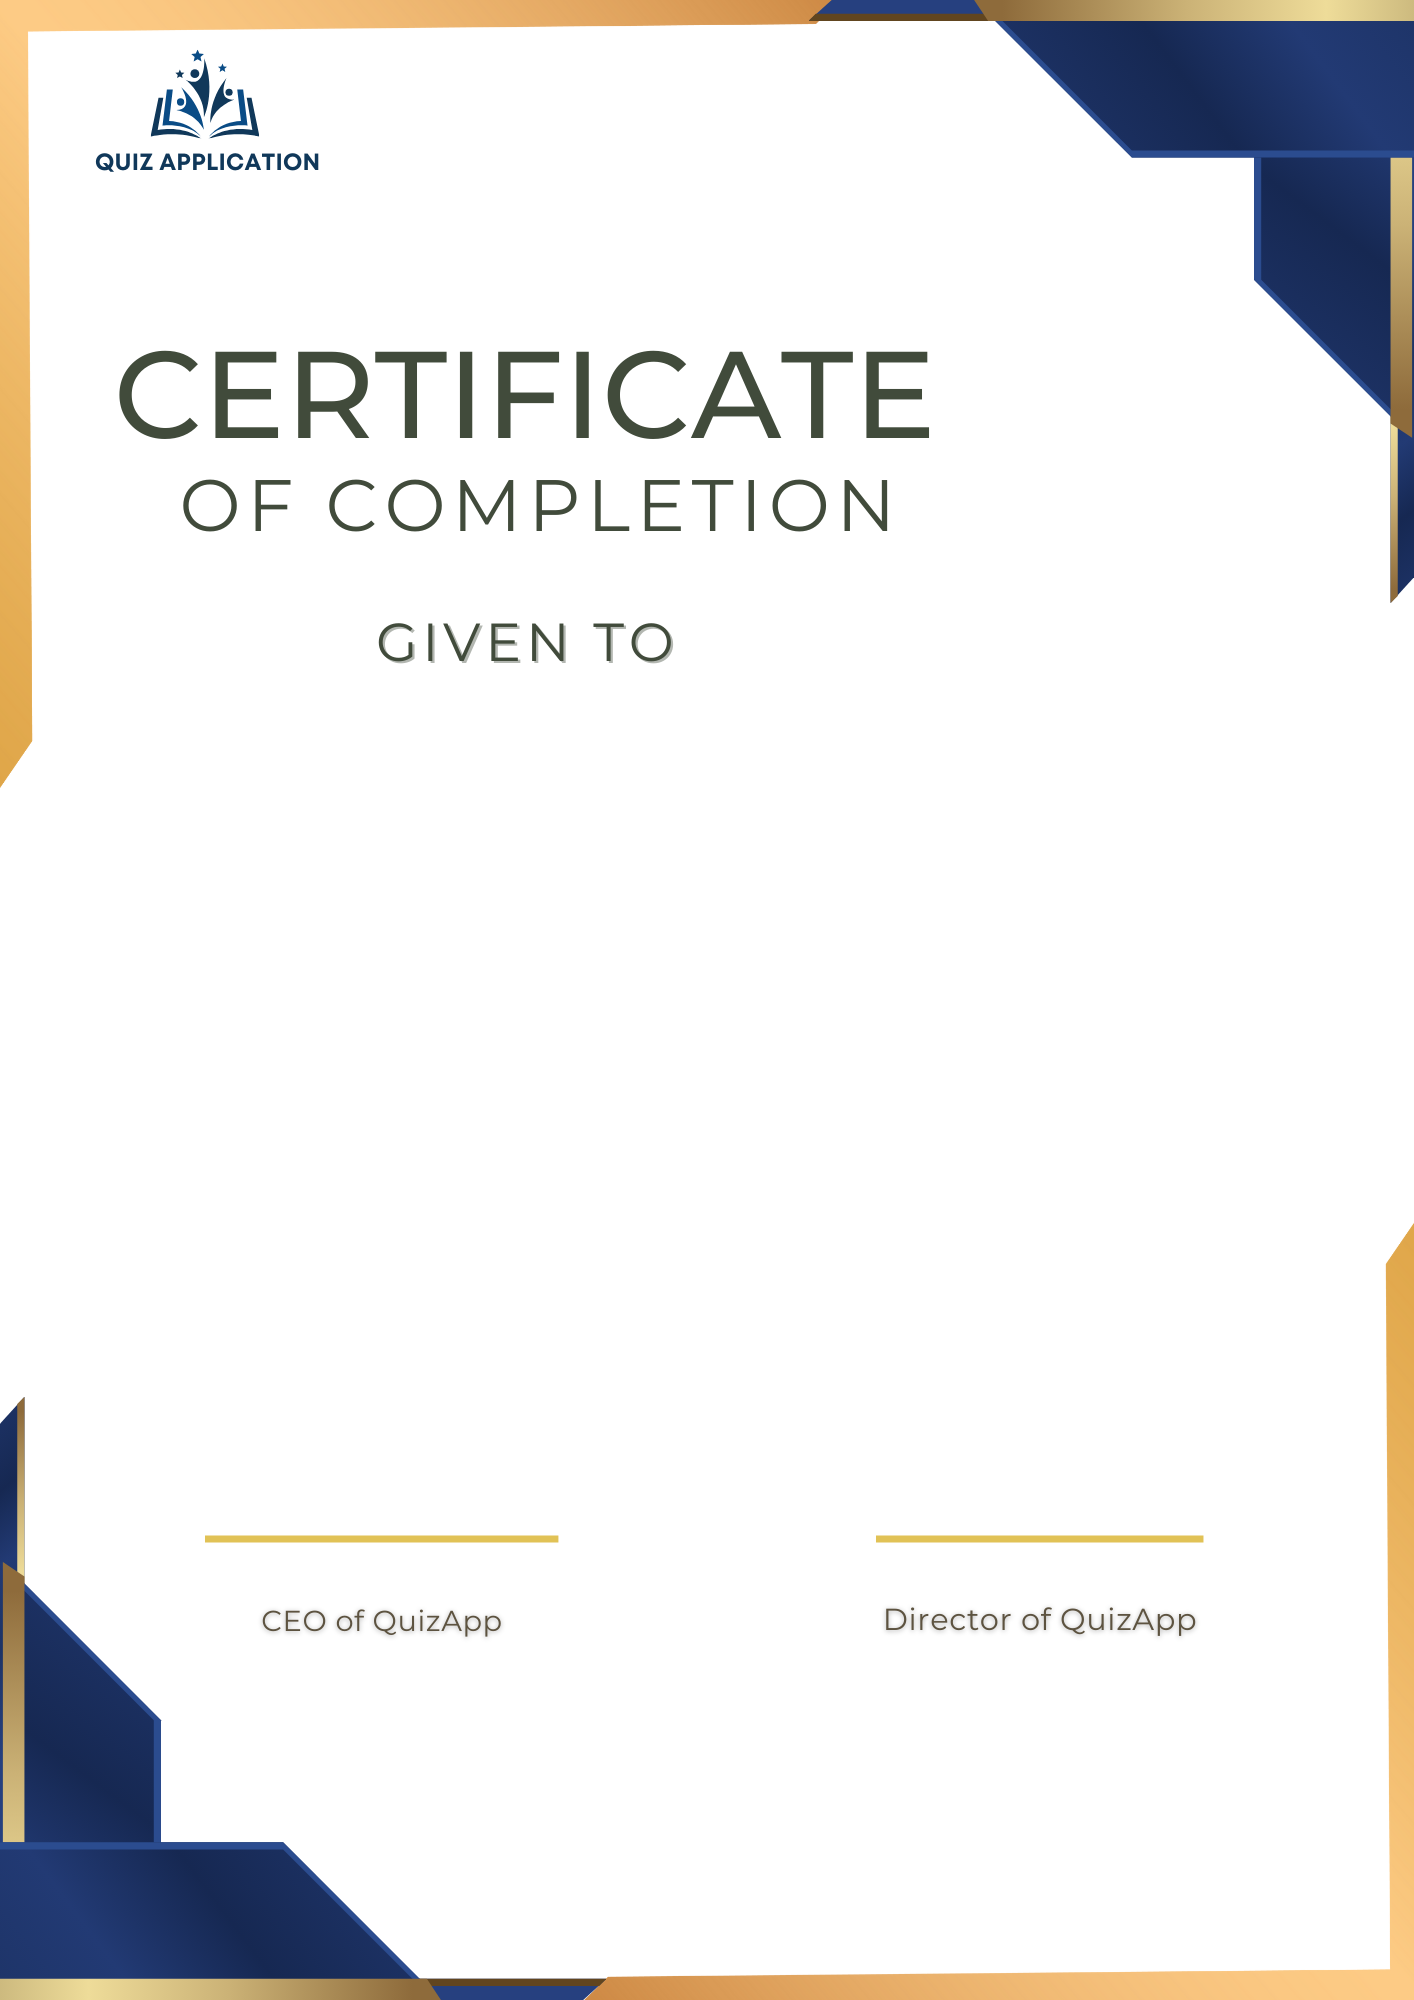
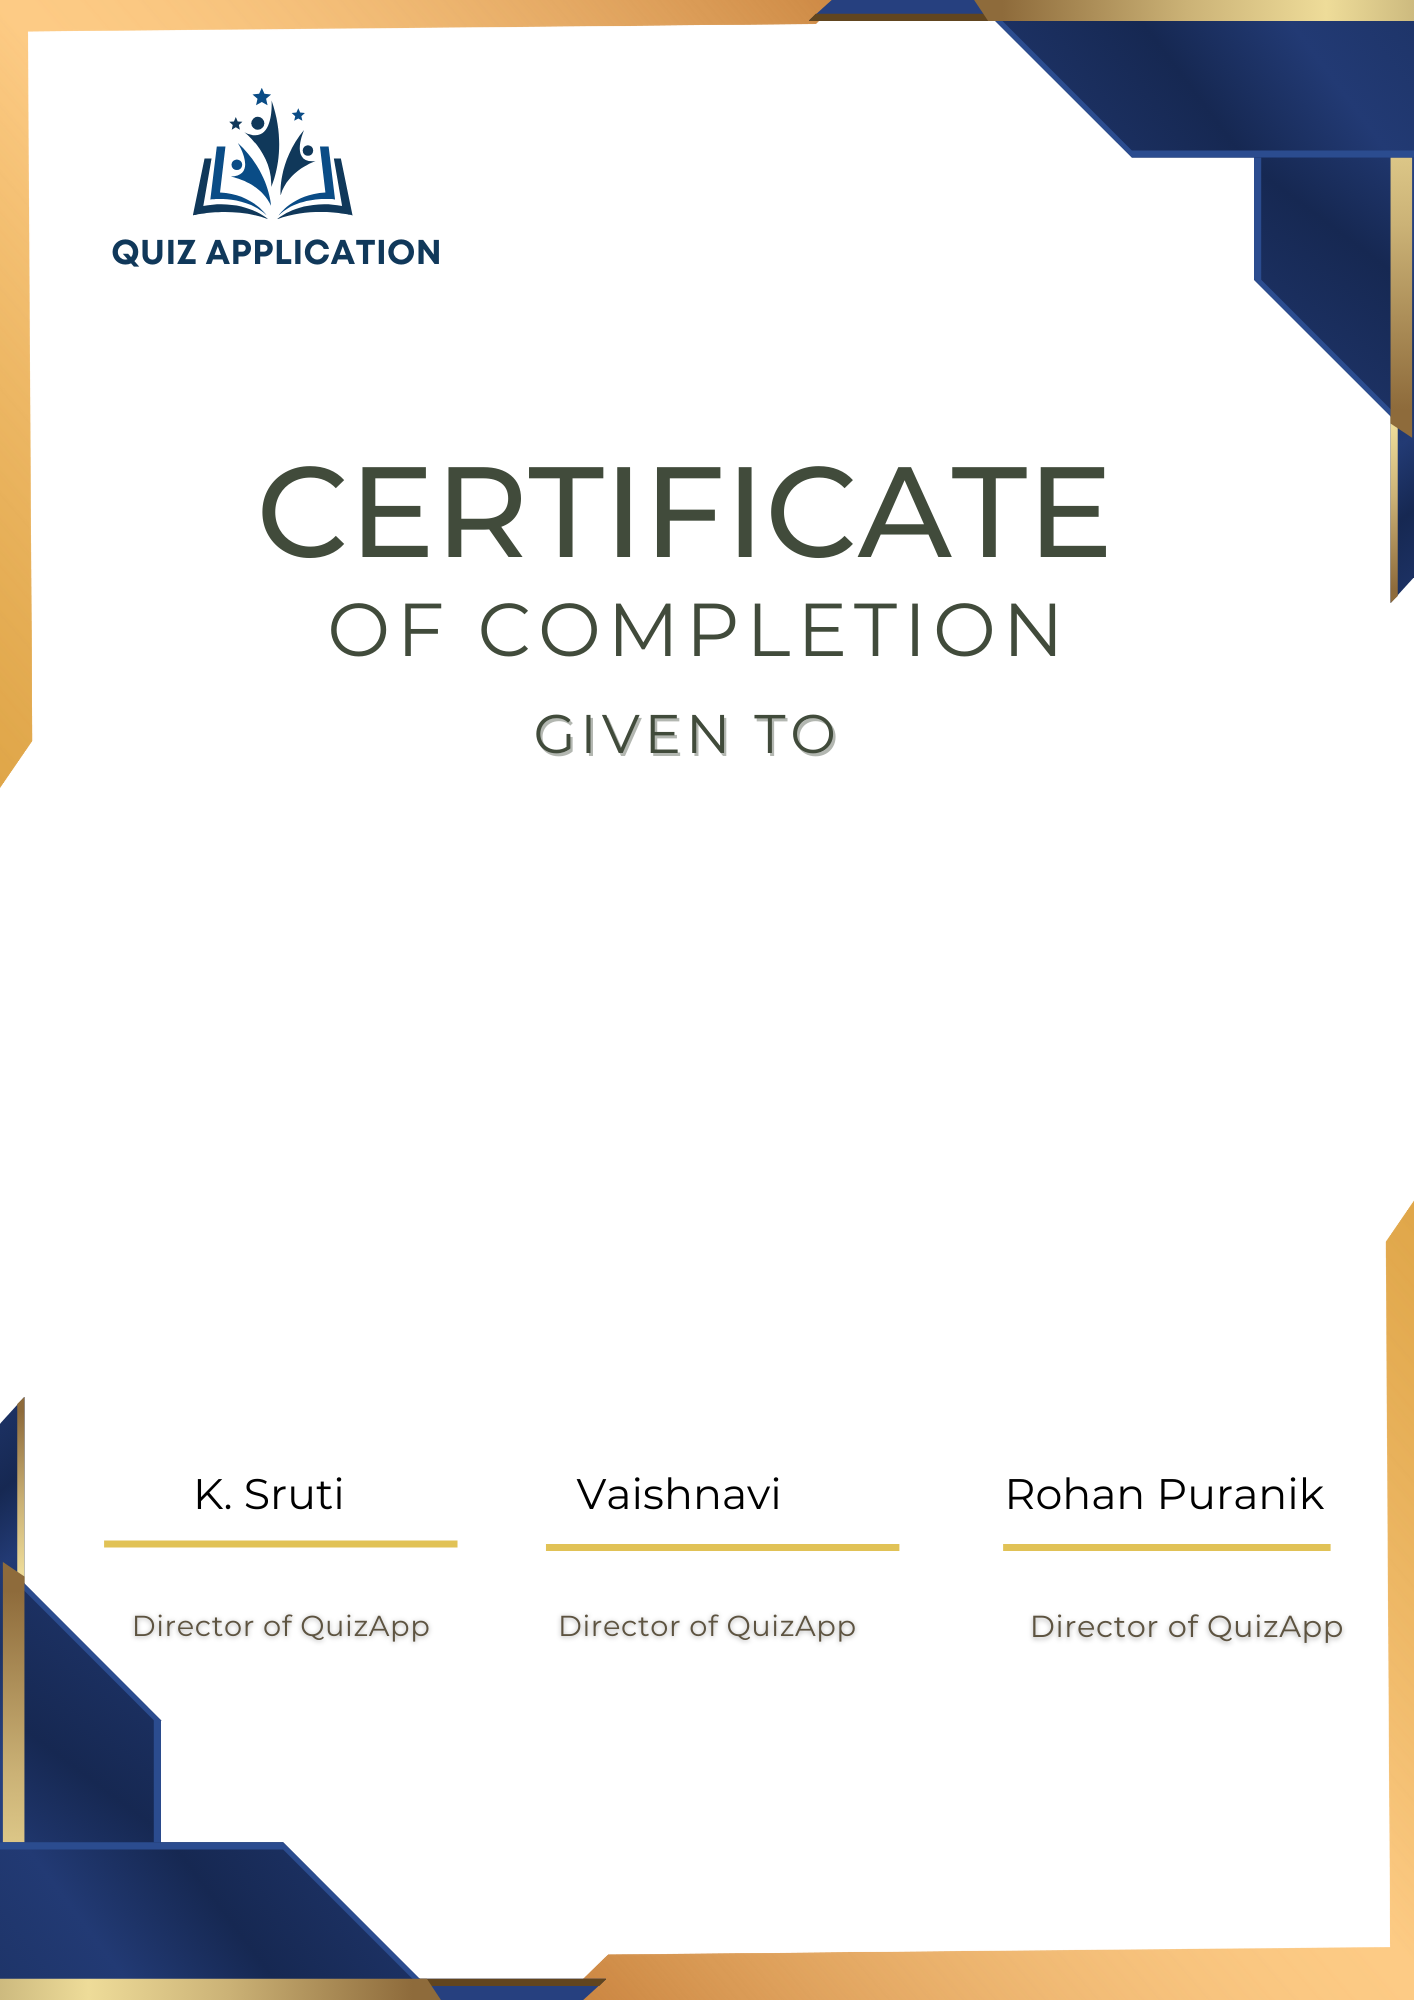
Certificate Design & alignments  Fixed

diff --git a/exam/certificate.html b/exam/certificate.html
@@ -5,7 +5,6 @@
     <meta name="viewport" content="width=device-width, initial-scale=1.0">
     <title>Document</title>
     <link rel="stylesheet" href="certificate.css">
-    <script src="html2pdf.bundle.min.js"></script>
     <script src="certificate.js"></script>
 
     <script src="https://cdnjs.cloudflare.com/ajax/libs/jspdf/1.3.4/jspdf.min.js"></script>

diff --git a/exam/certificate.css b/exam/certificate.css
@@ -25,7 +25,8 @@ img{
 .name{
     font-size:2em;
     position: relative;
-    left: 2em;
+    align-items: center;
+    text-align: center;
 }
 .para{
     font-size: 1em;
